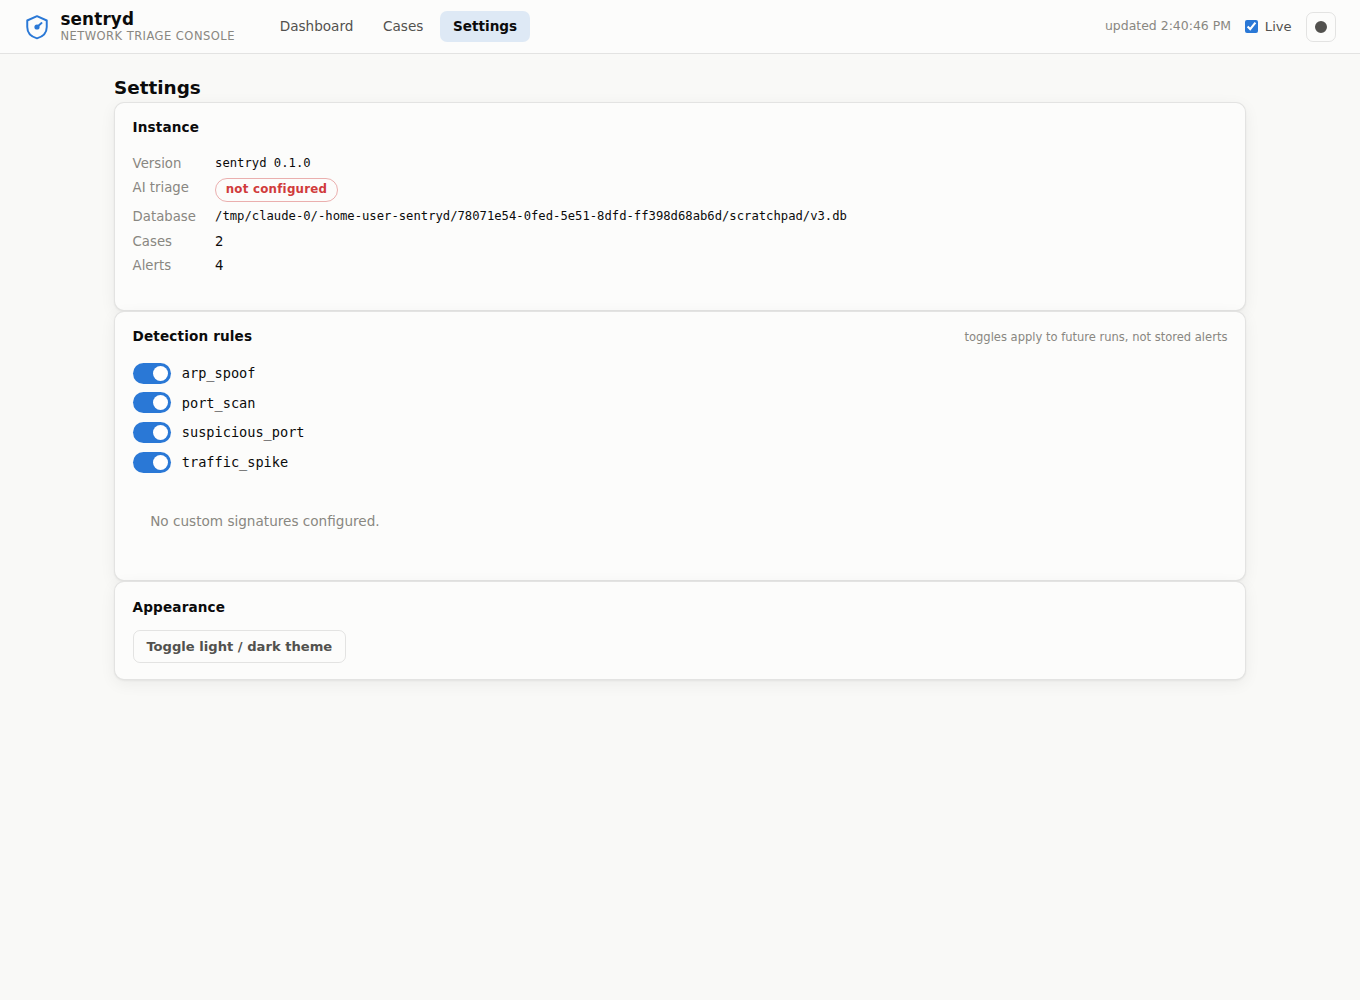
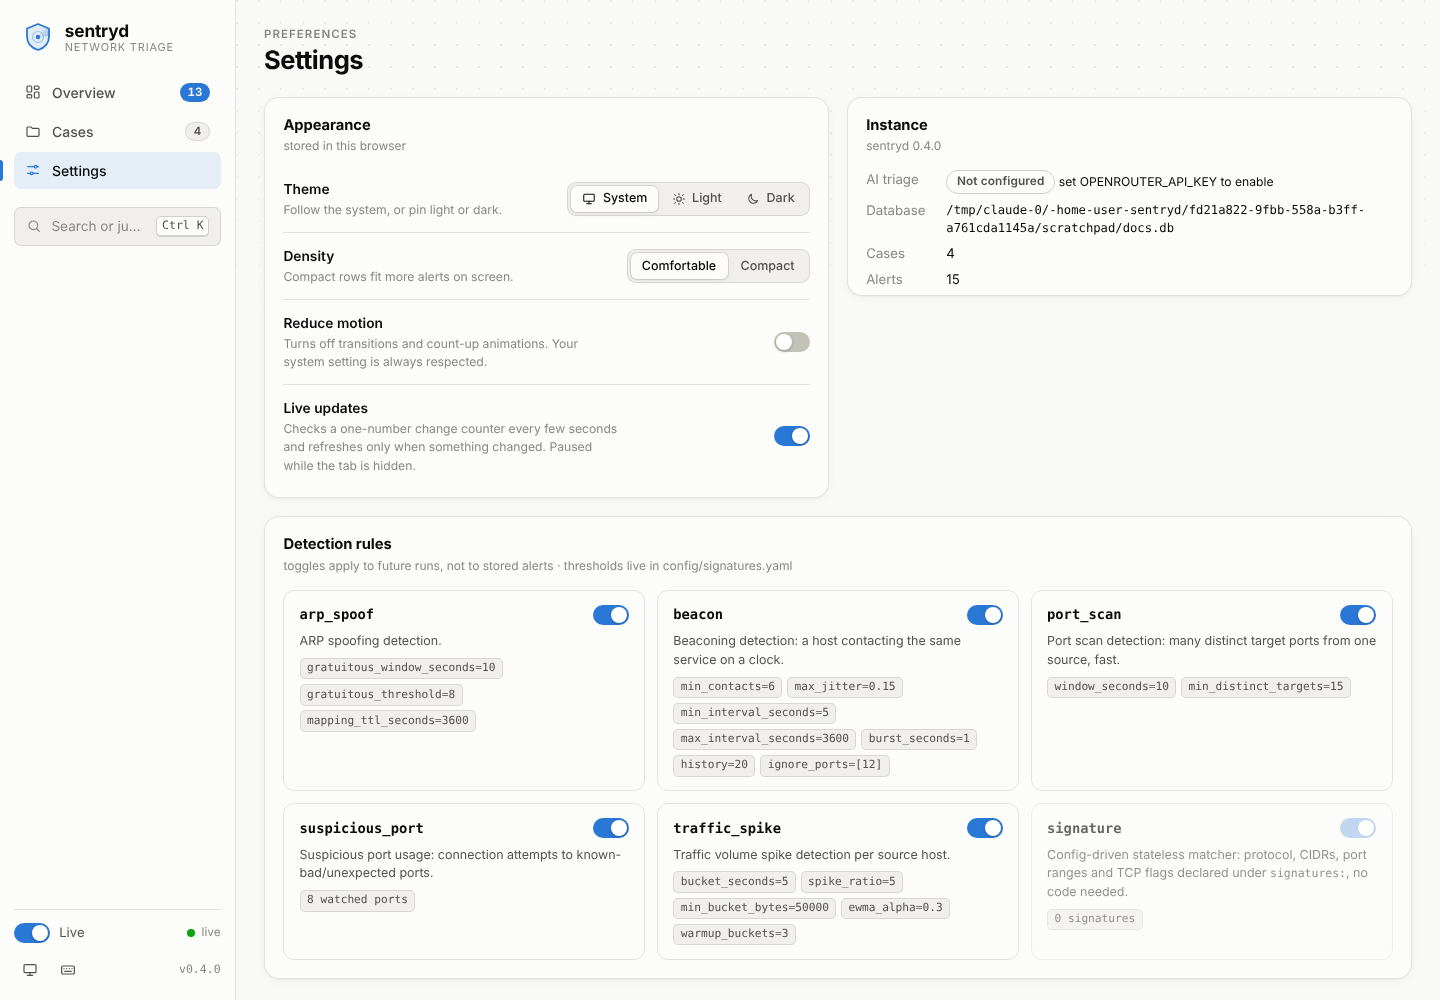
Docs, screenshots, version 0.4.0
README covers the beacon rule and stealth scans, kill-chain correlation
and risk scoring, the rebuilt console (palette, keyboard triage, bulk
verdicts, attack graph, live updates) and the new API endpoints; fresh
light/dark screenshots; CHANGELOG and AGENTS.md updated.

Claude-Session: https://claude.ai/code/session_01LdFGatgDMiPK6pjKwxwCtB

diff --git a/src/sentryd/__init__.py b/src/sentryd/__init__.py
@@ -1,3 +1,3 @@
 """sentryd, rule-based network anomaly detection with optional AI triage."""
 
-__version__ = "0.3.0"
+__version__ = "0.4.0"

diff --git a/README.md b/README.md
@@ -8,7 +8,7 @@ explainable, testable rule logic that runs entirely offline. The AI layer
 annotates alerts after they exist, it never influences whether something is
 detected, and the whole tool works with no API key configured.
 
-![sentryd dashboard](docs/img/dashboard.png)
+![sentryd overview](docs/img/dashboard.png)
 
 ```
  input sources                 core                       consumers
@@ -26,11 +26,18 @@ detected, and the whole tool works with no API key configured.
 
 | rule | what it catches | technique |
 |---|---|---|
-| `port_scan` | vertical scans, horizontal sweeps | sliding window of SYN-only attempts; distinct (host, port) targets per source |
+| `port_scan` | SYN/connect scans, stealth FIN and XMAS scans, horizontal sweeps | sliding window of probe segments (no ACK); distinct (host, port) targets per source; technique named in the alert |
+| `beacon` | command-and-control check-ins | per-flow contact rhythm: coefficient of variation of the intervals, burst and SYN-retransmit folding, streaming and infrastructure ports excluded |
 | `traffic_spike` | floods, exfil bursts | per-host EWMA baseline per time bucket; ratio threshold + absolute floor |
 | `arp_spoof` | ARP cache poisoning / MITM | IP→MAC conflict tracking over ARP announcements; gratuitous-ARP flood detection |
 | `suspicious_port` | known-bad ports (4444, 31337, telnet, …) | config-driven watchlist with per-port severity and analyst notes |
 | `signature` | anything stateless you can describe | YAML signatures: protocol, CIDRs, port ranges, TCP flags |
+
+Stealth probes are counted only when their flags are explicit (FIN, or
+FIN+PSH+URG): a flagless NULL probe is indistinguishable from a log record
+that simply omits `tcp_flags`, so it is not guessed at. The beacon rule
+fires once per established rhythm and re-arms only after the pattern clearly
+breaks, so a beacon hovering at the jitter threshold cannot flap.
 
 Every alert carries a rule id, severity, confidence, and concrete evidence
 (the ports probed, both MACs, the byte counts), enough for an analyst to
@@ -166,27 +173,56 @@ the exact code that runs on live traffic.
 
 ## Web UI
 
-`sentryd web` serves a single-page console (plain HTML/CSS/JS, no build step)
-plus the REST API. It has three views:
+`sentryd web` serves a single-page console (plain HTML/CSS and ES modules,
+no build step) plus the REST API.
 
-- **Dashboard**: KPI tiles, an alert-activity timeline, per-rule breakdown,
-  and a filterable alert table, scoped to all cases or one.
-- **Cases**: drag-and-drop PCAP upload (or a server-side path for advanced
-  users) that creates a case and replays it in the background with live
-  progress, plus the case list.
-- **Case detail**: summary and metadata, editable notes, correlated activity
-  with attack-chain labels, per-case timeline and alerts, export buttons, and
-  an **Overall AI Review** button that renders the sectioned report.
-- **Settings**: instance status, per-rule on/off toggles, and the theme
-  switch.
+- **Overview**: KPI tiles with sparklines and review progress, an activity
+  chart (click a bar to filter the table to that window, shift-click to
+  extend), clickable rule/host/port breakdowns, and the alert table with
+  severity, rule, verdict and text filters that live in the URL.
+- **Cases**: drag-and-drop PCAP upload with real upload progress, then live
+  replay progress, plus the case list.
+- **Case detail**: a risk gauge with the factors behind the score,
+  autosaving analyst notes, correlated activity drawn as kill-chain steps per
+  offending host, an interactive **attack graph**, per-case activity, alerts,
+  an export menu, and the **Overall AI Review**.
+- **Settings**: theme (system/light/dark), density, reduce-motion, live
+  updates, instance status, and rule cards with on/off switches, summaries
+  and current thresholds.
 
-Alert and host detail open in a slide-over drawer with the verdict controls.
-The UI is light/dark themed and degrades to clear messages when AI is not
-configured.
+Alert and host detail open in a slide-over drawer: the flow, timing and
+confidence at a glance, verdict buttons, why the rule fired, highlighted
+evidence, copyable investigation commands, related alerts, and prev/next
+navigation through the table.
+
+**Fast to drive from the keyboard.** <kbd>Ctrl</kbd>/<kbd>⌘</kbd>+<kbd>K</kbd>
+opens a command palette over views, actions, cases, alerts and hosts (type
+`#12` or an IP to jump). <kbd>J</kbd>/<kbd>K</kbd> move through alerts,
+<kbd>Enter</kbd> opens one, <kbd>1</kbd>-<kbd>5</kbd> set the verdict in the
+drawer, <kbd>X</kbd> selects rows for a bulk verdict, <kbd>G</kbd> then
+<kbd>O</kbd>/<kbd>C</kbd>/<kbd>S</kbd> navigates, and <kbd>?</kbd> lists the
+rest. Every verdict change offers a one-click undo.
+
+**Live without the polling cost.** The console asks the server for a single
+change counter every few seconds and refreshes only when it moves; nothing
+is fetched or re-rendered while the workspace is idle, polling pauses in
+background tabs, and new alerts flash into the table as they arrive. Data
+endpoints also answer `304 Not Modified` when nothing changed.
+
+The UI is light/dark themed, honors `prefers-reduced-motion`, works at phone
+width, and degrades to clear messages when AI is not configured. With
+`SENTRYD_API_TOKEN` set, it asks for the token once and sends it with every
+request and download.
+
+![overview, dark theme](docs/img/dashboard-dark.png)
 
 ![case detail](docs/img/case-detail.png)
 
+![attack graph](docs/img/attack-graph.png)
+
 ![alert drawer](docs/img/alert-drawer.png)
+
+![command palette](docs/img/command-palette.png)
 
 ## Interpreting alerts
 
@@ -202,6 +238,16 @@ Each alert answers three questions before you touch the AI layer:
   AI is needed to confirm the finding.
 - **What to do next.** A suggested investigation command (sentryd filters or a
   `tshark` display filter) and the related alerts on the same hosts.
+
+**Correlation and risk.** Alerts from one offending source form a cluster
+whose phases are listed in kill-chain order (reconnaissance, man-in-the-middle
+positioning, service access, command-and-control, unusual volume). A
+watchlisted-port hit that is one of a port scan's own probes is folded into
+reconnaissance instead of reading as a separate intrusion step. Each cluster
+gets a 0-100 risk score built from named, additive factors (peak severity,
+evidence confidence, multi-stage escalation, analyst verdicts), and the case
+is as risky as its riskiest cluster. Closing alerts as false positive or
+expected lowers the score; confirming one raises it. No AI is involved.
 
 Work a case by assigning a **verdict** to each alert (confirmed, false
 positive, expected, ignored, dismissed) from the drawer or
@@ -223,11 +269,14 @@ Interactive OpenAPI docs are served at `/docs`. Core endpoints:
 | POST | `/api/pcaps/upload` | upload a .pcap/.pcapng, creates a case and replays it |
 | POST | `/api/replay` | replay a server-side path (`{"path": ...}`) |
 | GET | `/api/cases/{id}/status` | replay progress and status |
-| GET | `/api/cases` / `/api/cases/{id}` | list cases / case detail with clusters and stats |
+| GET | `/api/cases` / `/api/cases/{id}` | list cases / case detail with clusters, phases, risk and stats |
 | POST | `/api/cases/{id}/archive` | archive a case |
 | DELETE | `/api/cases/{id}` | delete a case and its alerts |
-| GET | `/api/alerts` / `/api/alerts/{id}` | list (filters: severity/rule/status/case/host) / detail with related + hint |
+| GET | `/api/alerts` / `/api/alerts/{id}` | list (filters: severity/rule/status/case/host/since/until) / detail with related + hint |
 | POST | `/api/alerts/{id}/status` | set the analyst verdict |
+| POST | `/api/alerts/bulk-status` | one verdict for many alerts (`{"ids": [...], "status": ...}`) |
+| GET | `/api/dashboard` | stats, timeline and case list in one round trip |
+| GET | `/api/revision` | change counter; poll it and refetch only when it moves |
 | POST | `/api/alerts/{id}/explain` | AI writeup for one alert |
 | POST | `/api/cases/{id}/triage` | overall AI review of a case |
 | GET | `/api/cases/{id}/report?format=md\|json` | case report download |
@@ -236,7 +285,9 @@ Interactive OpenAPI docs are served at `/docs`. Core endpoints:
 | GET | `/api/hosts/{ip}` / `/api/status` | host summary / instance status |
 
 AI endpoints return `503` with a clear message when no provider is
-configured; detection and export endpoints never need one.
+configured; detection and export endpoints never need one. Data `GET`s carry
+an `ETag` tied to the store revision and answer `304` to a matching
+`If-None-Match`, so repeat reads of unchanged data skip the query entirely.
 
 **Hardening.** The API binds to `127.0.0.1` by default. Set
 `SENTRYD_API_TOKEN` to require an `Authorization: Bearer <token>` header on
@@ -254,10 +305,12 @@ Both interfaces expose the same core capabilities over one engine and store:
 | list and filter alerts | `alerts list` | Dashboard table |
 | alert detail (evidence, why, next step) | `alerts show` | alert drawer |
 | cases: list / show / archive / delete / notes / clear | `cases ...` | Cases + case detail |
-| set alert verdict | `alerts status <id> <verdict>` | drawer verdict buttons |
+| set alert verdict | `alerts status <id> <verdict>` | drawer verdict buttons / keys 1-5 |
+| bulk verdicts with undo | `POST /api/alerts/bulk-status` | table multi-select + bulk bar |
+| case risk score and factors | `cases show`, markdown report | risk gauge, cluster risk |
 | per-alert AI explanation | `triage <id>` | Explain button |
 | overall AI review | `triage latest\|--case\|--pcap` | Overall AI Review button |
-| host summary | (in `alerts show` related) | host drawer |
+| host summary | (in `alerts show` related) | host drawer, attack graph |
 | exports (json/csv/md) | `export ...` | case page download buttons |
 | rules: list / explain / lint / test | `rules ...` | Settings (list) / `GET /api/rules` |
 | enable / disable rules | `rules enable/disable` | Settings toggles |
@@ -298,11 +351,11 @@ src/sentryd/
 ├── sources/     pcap replay, live capture, log tailing into Events
 ├── rules/       one module per detection rule + config-driven signatures
 ├── triage/      TriageProvider protocol, OpenRouter impl, digest + review
-├── storage/     SQLite alert/case store (stdlib sqlite3, in-place migration)
+├── storage/     SQLite alert/case store (stdlib sqlite3, WAL, in-place migration)
 ├── runner.py    case orchestration shared by CLI and web
 ├── export.py    JSON/CSV/markdown exports
 ├── dashboard/   Textual terminal UI
-└── web/         FastAPI REST API + static single-page console
+└── web/         FastAPI REST API + static console (ES modules in static/js/)
 tests/           per-rule positive/negative tests, synthetic pcap fixtures
 ```
 

diff --git a/AGENTS.md b/AGENTS.md
@@ -37,8 +37,11 @@ organized into cases, with AI triage as an optional post-hoc annotator.
   `(rule_id, src, dst, key)` within a cooldown (event time, not wall clock),
   keeps `last_ts` current, dispatches to `AlertSink`s (protocol:
   `emit(alert)` / `update(alert)`).
-- `core/correlate.py`, deterministic clustering of case alerts by source with
-  attack-chain labels, plus `related_alerts` and `investigation_hint`.
+- `core/correlate.py`, deterministic clustering of case alerts by source.
+  Clusters expose kill-chain `phases` (scan probes fold into
+  reconnaissance; ties break by stage) and an explainable `risk` score
+  built from named additive factors; `case_risk` takes the riskiest
+  cluster. Also `related_alerts` and `investigation_hint`.
 - `runner.py`, `run_case()` / `create_pending_case()`: shared case
   orchestration for CLI and web (creates the case, stamps alerts with
   case_id, writes progress, finalizes status/span). Web runs it in a thread.
@@ -52,7 +55,10 @@ organized into cases, with AI triage as an optional post-hoc annotator.
   digest, `review.py` orchestrates and persists the overall review.
 - `storage/store.py`, SQLite via stdlib `sqlite3`, no ORM. `AlertStore` is
   the alert+case repository and an engine sink; `_migrate()` adds missing
-  columns in place so old databases keep working.
+  columns in place so old databases keep working. WAL mode; the schema
+  pass only runs when `PRAGMA user_version` is behind `SCHEMA_VERSION`
+  (bump it whenever the schema, triggers or migrations change). Triggers
+  keep a `meta.revision` counter that moves on every alert/case write.
 - `export.py`, JSON/CSV alert exports and case markdown/JSON reports.
 - `config.py`, packaged defaults (`data/default_config.yaml`) deep-merged
   with the user file (`./config/signatures.yaml` or `--config`); `_validate`
@@ -60,7 +66,13 @@ organized into cases, with AI triage as an optional post-hoc annotator.
 - `cli.py`, Typer entrypoint (`sentryd`): replay/sniff/tail, alerts, cases,
   triage, export, rules, dash, web.
 - `web/api.py`, FastAPI REST API + static SPA (`web/static/`). OpenAPI at
-  `/docs`. AI endpoints return 503 when no provider is configured.
+  `/docs`. AI endpoints return 503 when no provider is configured. Data
+  GETs are revalidated against the store revision (ETag/304);
+  `/api/revision` and `/api/dashboard` serve the console's live loop.
+- `web/static/`, the console: `app.js` (entry: router, keyboard, live
+  loop) plus ES modules in `js/` (`api` auth-aware fetch, `live` revision
+  polling, `ui` primitives, `charts`, `table`, `details` drawers,
+  `palette`, and one module per view). No build step, no dependencies.
 
 ## Conventions
 
@@ -86,6 +98,9 @@ organized into cases, with AI triage as an optional post-hoc annotator.
 - **AI sees only bounded, structured metadata**, never raw packets, and only
   when the user explicitly runs triage/review. Case reviews go through
   `triage/digest.py` (hard size cap); keep it that way.
+- **Console code escapes server data** with `esc()` before it reaches
+  `innerHTML` (or uses `textContent`); charts follow the reference palette
+  and mark specs in `style.css`, and severity is never color alone.
 - **Every run is a case.** New code that produces alerts should attach them
   to a case via the runner rather than writing to the store directly.
 - Prose style for repo files: no em dashes, and no AI-assistant references

diff --git a/CHANGELOG.md b/CHANGELOG.md
@@ -1,5 +1,45 @@
 # Changelog
 
+## 0.4.0
+
+Detection depth, correlation you can rank by, and a rebuilt console.
+
+- **Stealth scans.** `port_scan` counts FIN and XMAS probes (segments
+  without ACK that can't belong to any connection) alongside bare SYNs,
+  names the technique in the title, and records a per-technique breakdown.
+- **Beaconing rule.** New `beacon` rule flags command-and-control
+  check-ins: per-flow contact rhythm judged by the coefficient of variation
+  of the intervals, with burst and SYN-retransmit folding, a streaming
+  floor, infrastructure ports ignored, LRU-bounded state, and hysteresis
+  so it can't flap. Thresholds live in config.
+- **Kill-chain correlation.** Clusters list their phases in order; a
+  watchlisted-port hit that is one of a scan's own probes counts as
+  reconnaissance (the demo case used to read "service access ->
+  reconnaissance"). Simultaneous phases follow kill-chain stage.
+- **Risk score.** Every cluster and case gets a 0-100 score built from
+  named factors (peak severity, confidence, multi-stage escalation,
+  verdicts), shown in the web UI, `cases show`, and the markdown report.
+- **Console rewrite.** New design system and sidebar shell, switches and
+  segmented controls, a risk gauge, kill-chain steppers, an interactive
+  attack graph, an activity chart that filters the table by time window,
+  a command palette, keyboard-driven triage (J/K, 1-5 verdicts, X to
+  select), bulk verdicts with undo, autosaving notes, real upload
+  progress, density and reduce-motion preferences, and phone layouts.
+- **Live updates that cost nothing when idle.** The console polls a
+  trigger-maintained store revision (`GET /api/revision`) and refetches
+  only when it moves; data GETs answer `304` via revision ETags;
+  `GET /api/dashboard` loads every panel in one round trip. Idle traffic
+  drops from 24 requests and ~129 KB per 30 s to 12 requests and 180 B.
+- **Store efficiency.** WAL mode with a busy timeout (reads no longer
+  contend with a running replay), schema work skipped unless
+  `user_version` is behind, no per-case COUNT when listing cases, SQL-side
+  aggregation for top hosts and the timeline, and new indexes.
+- **API.** `POST /api/alerts/bulk-status`; `since`/`until` filters on
+  alert listing and export; verdict counts and target involvement in
+  stats; rule summaries on `/api/rules`; constant-time token comparison.
+- **Token-gated servers work in the browser.** With `SENTRYD_API_TOKEN`
+  set, the console prompts once, retries, and authenticates downloads.
+
 ## 0.3.0
 
 Analyst workflow, settings, hardening, and packaging.
